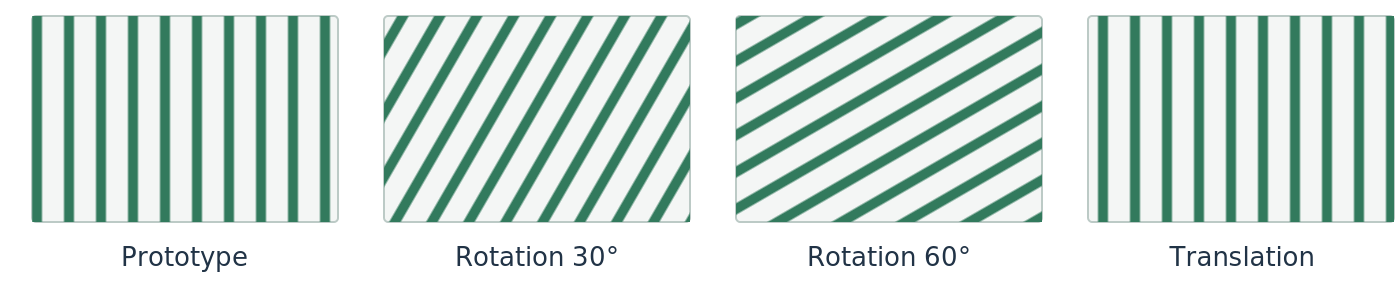
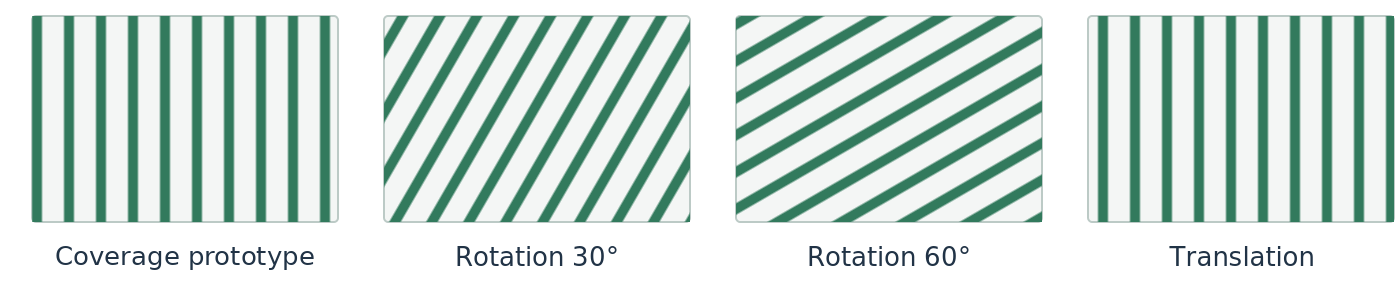
Write the preface and the figure labels of the specification in the terms of the glossary
The task was to write Specification.md in the terms of the glossary.
The preface and the labels in figures 1, 2, 5 and 6 kept the earlier
words, because the brief of the session told it to keep the preface and
the figures, and that was not @Pauli's decision.

The preface now reads "upstream's map model" as the code of upstream in
src/MapModel, as the encodings of Skia and PDF belong to Map_SkiaStd
and Map_PDF, outside MapModel.csproj. Pass 1 makes the palette
separations and their palette cutters. The figures name the periodic
coverage, the coverage of the palette cutter, the map side, the
intermediate layer, the palette stack, the coverage prototype and the
opacity on the transparency group. Progress.md lists the reading of the
preface with the other choices that the session made on its own.

Changed region(s): [[0.0307, 0.8379, 0.2457, 0.931]]

diff --git a/doc/devdocs/PaletteLayers/Specification.md b/doc/devdocs/PaletteLayers/Specification.md
@@ -1,10 +1,10 @@
 # Palette-layer vector graphics architecture
 
 > This is a working document converted from `Palette_Layer_Vector_Graphics_Specification_Revised.docx` on Nov 17, 2026.
-> This text was written again on Nov 21, 2026, in the terms of [Glossary.md](Glossary.md) and by the structure of the passes (@Pauli, Nov 21).
-> This specification was never the basis of NotPurplePen. Rather this is the reference for an architecture change of upstream's map model, to be later on integrated into NotPurplePen. Where NotPurplePen already knows how to take the model further, this specification does not bind as such, and the knowledge can be used to develop this specification further.
+> This text was written again on Nov 21 and 22, 2026, in the terms of [Glossary.md](Glossary.md) and by the structure of the passes (@Pauli, Nov 21).
+> This specification was never the basis of NotPurplePen. Rather this is the reference for an architecture change of upstream's code in `src/MapModel`, to be later on integrated into NotPurplePen. Where NotPurplePen already knows how to take that code further, this specification does not bind as such, and the knowledge can be used to develop this specification further.
 > By default, the branch feature/multiply-blending is the oracle of this work (@Pauli, Nov 17).
-> That branch is an oracle of the appearance only, not a model of the implementation. The goal of this work is the architecture that this specification separates: pass 1 makes the instances, and pass 2 composites them. feature/multiply-blending gets its appearance in another way: it blends an ink as a layer around the drawing of the symbols. Where this specification leaves room to do the same, the room is not meant. The work does not read the code of that branch (@Pauli, Nov 18).
+> That branch is an oracle of the appearance only, and not a guide for the implementation. The goal of this work is the architecture that this specification separates: pass 1 makes the palette separations and their palette cutters, and pass 2 composites them. feature/multiply-blending gets its appearance in another way: it blends an ink as a layer around the drawing of the symbols. Where this specification leaves room to do the same, the room is not meant. The work does not read the code of that branch (@Pauli, Nov 18).
 > OCAD and OpenOrienteering Mapper are the authorities on how their own maps render. For Mapper maps, Mapper is an oracle of the appearance: this architecture may organize the vector structure in its own way, but where Mapper implements the function, the result must look as Mapper draws it, except where we find a bug in Mapper (@Pauli, Nov 17).
 
 Design specification / Cartographic rendering
@@ -58,7 +58,7 @@ A palette color takes part in the drawing only where its coverage is. A coverage
 
 ![Figure 1](figures/figure-1.png)
 
-Figure 1. A clipping object limits the extent of the periodic coverage G. The coverage that results stays binary.
+Figure 1. A clipping object limits the extent of the periodic coverage G. The coverage of the palette cutter stays binary.
 
 In compositing, the alpha has two parts: the coverage and the opacity. This architecture keeps them apart. G and the clipping objects give the binary coverage, and the opacity α is a property of the palette color.
 

diff --git a/doc/devdocs/PaletteLayers/Progress.md b/doc/devdocs/PaletteLayers/Progress.md
@@ -188,12 +188,14 @@ the rendering.
 - **The review of the new specification** (Nov 21). @Pauli let the session write [Specification.md](Specification.md)
   again on its own, and he reviews it afterwards. These are the choices that the session made on its own, and not his
   decisions:
-  - The preface stays as it was. A dated sentence after its first sentence tells that the text was written again.
+  - The preface reads "upstream's map model" as the code of upstream in `src/MapModel`, as the encodings of Skia and PDF
+    belong to `Map_SkiaStd` and `Map_PDF`, outside `MapModel.csproj`. "Not a model of the implementation" is now "not a
+    guide for the implementation". A dated sentence after the first sentence tells that the text was written again.
   - The new text gives no dates, attributions or sources in parentheses, as the glossary does. The citations [1] to [16]
     stay.
   - The title stays, as the glossary is the glossary of the palette-layer architecture.
-  - The figures stay as they are, and their captions use the terms of the glossary. Each figure has a place in the new
-    sections such that the figures keep their numbers 1 to 8.
+  - The labels of figures 1, 2, 5 and 6, and all the captions, use the terms of the glossary. Each figure has a place in
+    the new sections such that the figures keep their numbers 1 to 8.
   - The opening text names the channels Skia, PDF and SVG in place of "SVG-compatible terms".
   - Section 01 gives the units of the structure in a table, and the rules of the structure as a list.
   - Section 02 gives the properties of a palette color in a table: C, α, B, the ink components, the knockout and the
